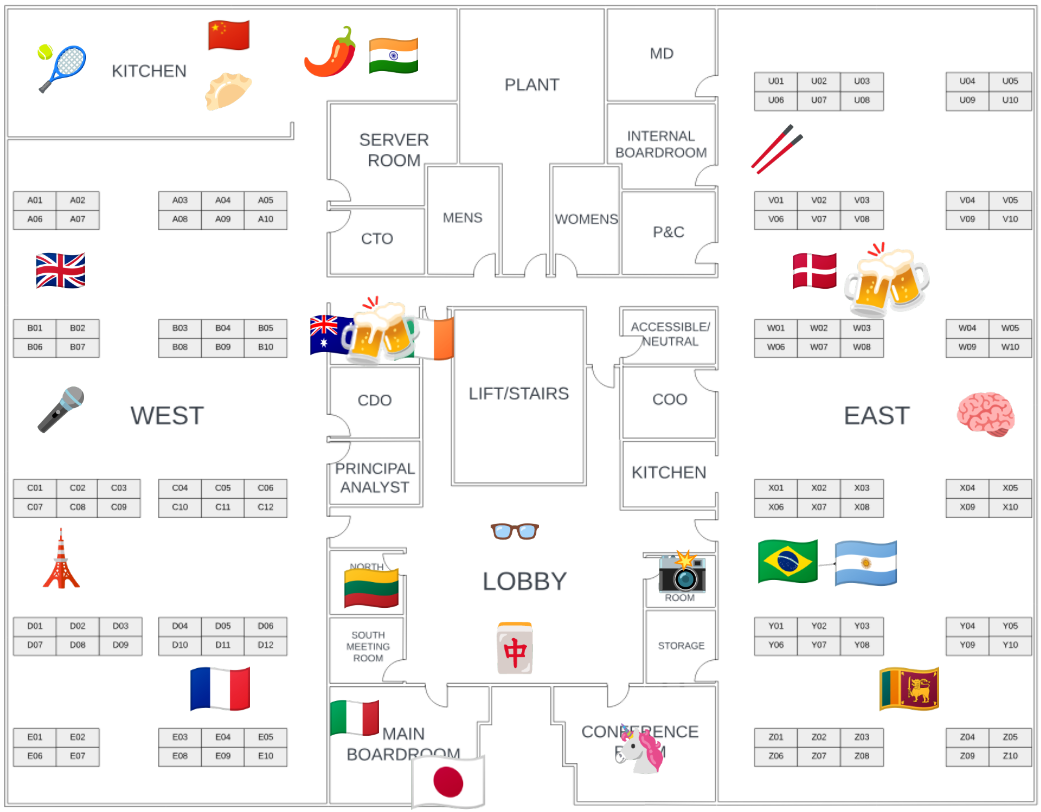
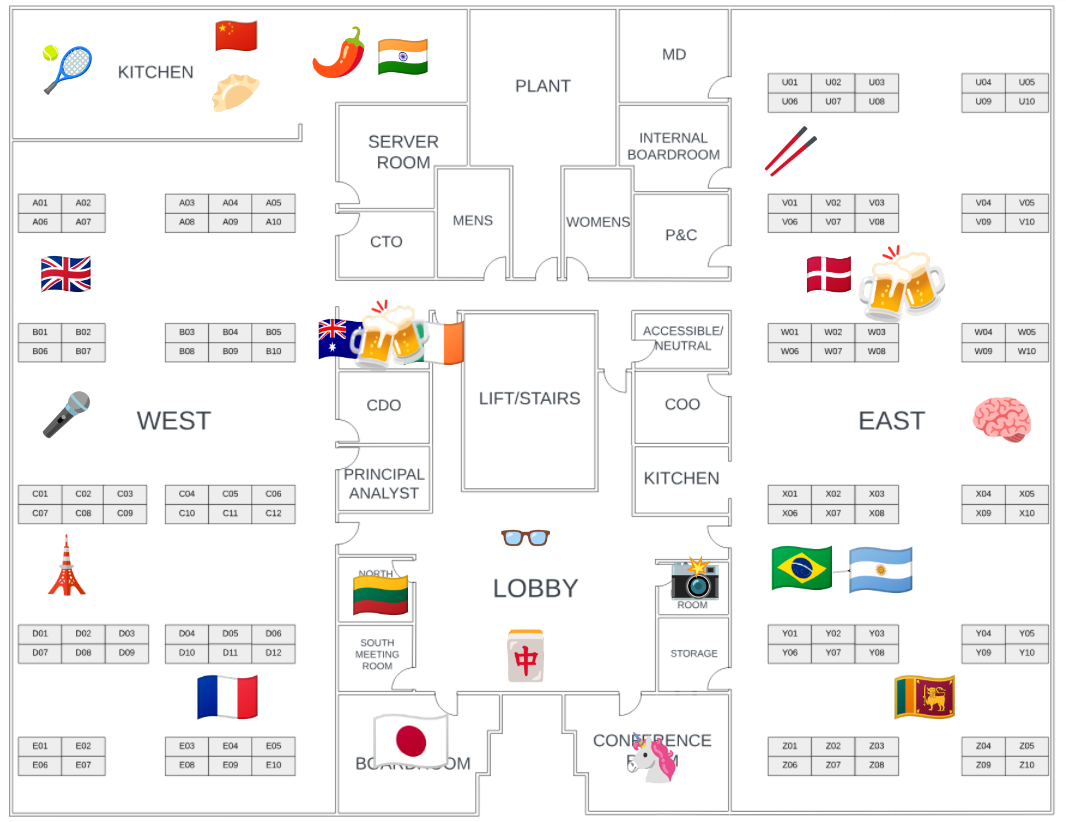
map updates

diff --git a/event_map.html b/event_map.html
@@ -146,7 +146,7 @@
 
     <div class="map-container">
         <div class="floor-plan-wrapper">
-            <img src="event-activities-map.jpg" alt="Aligent Mid Year Event Activities Map" class="floor-plan">
+            <img src="event-activities-map.png" alt="Aligent Mid Year Event Activities Map" class="floor-plan">
         </div>
         
         <a href="index.html" class="back-button">← Back to Index</a>
